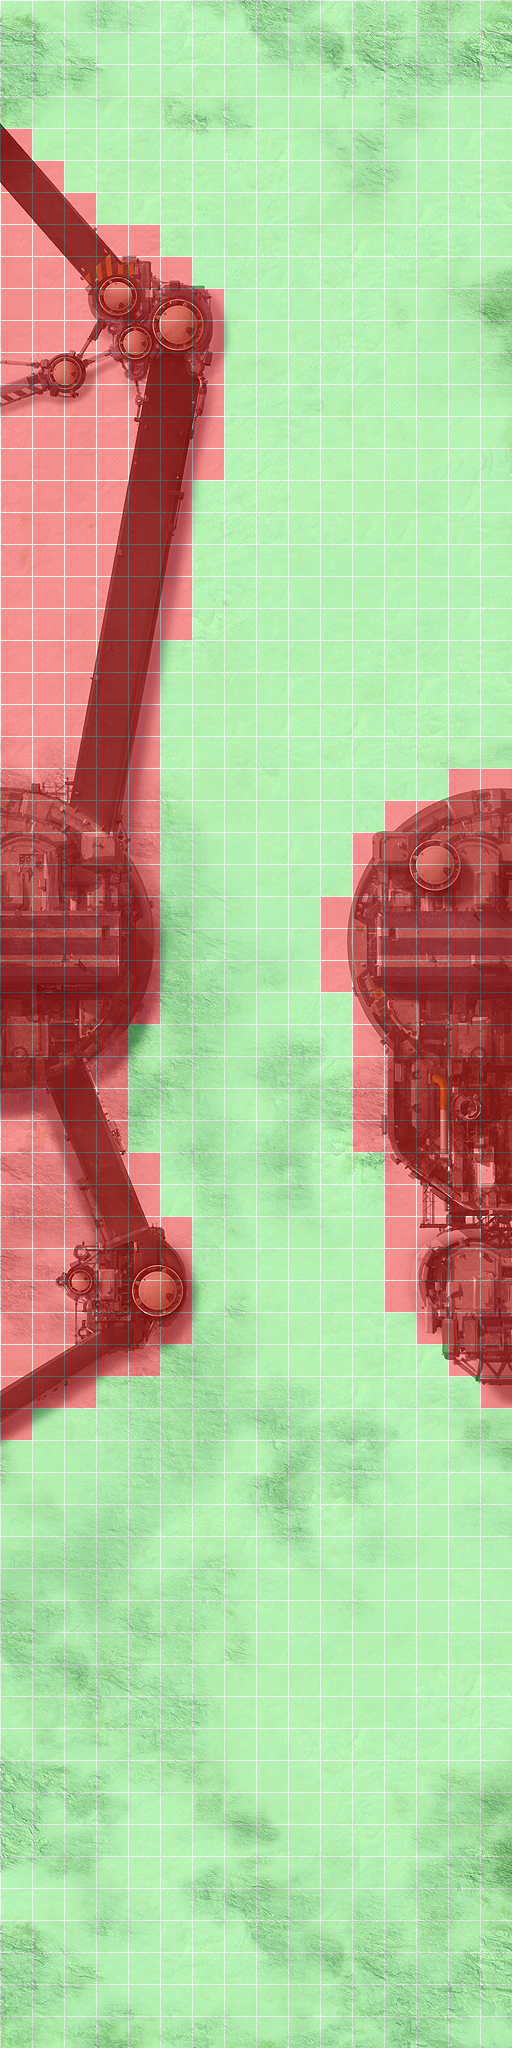
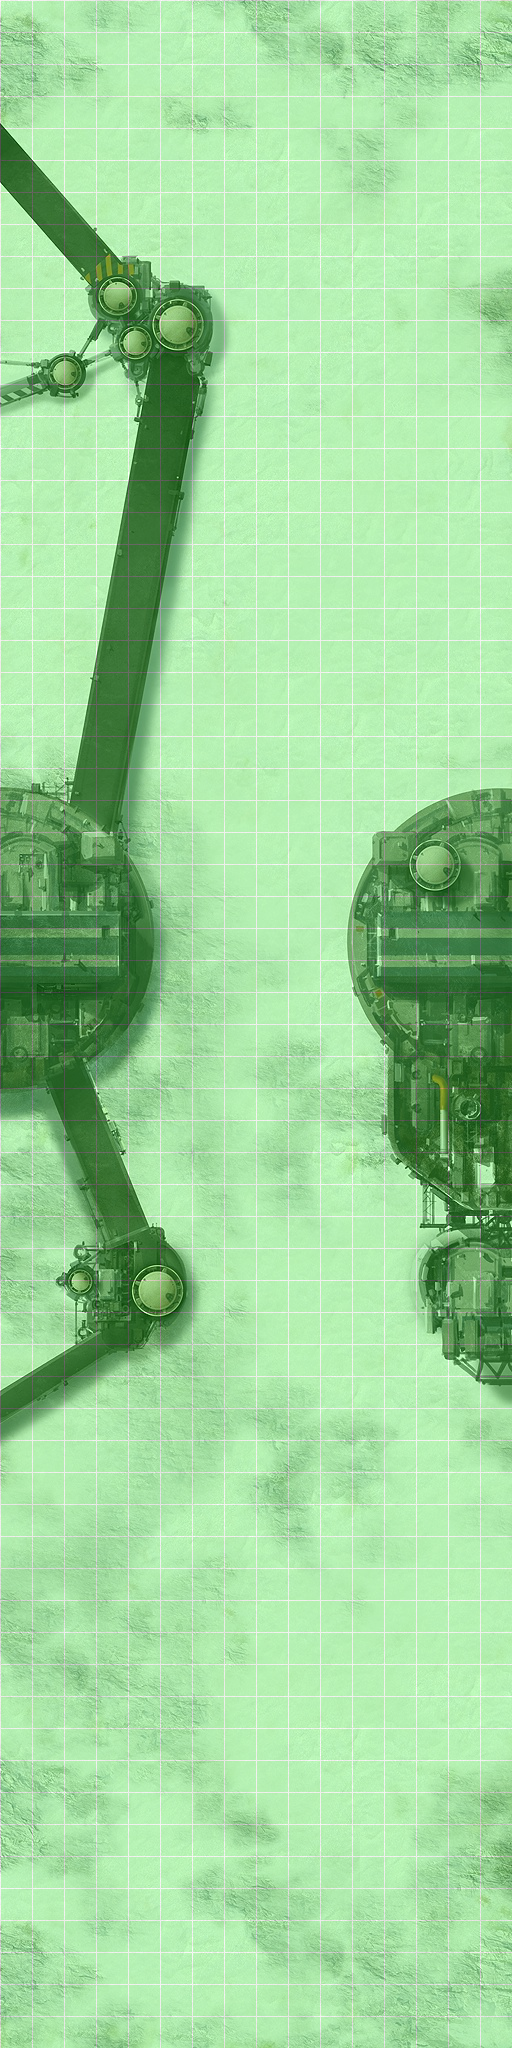
feat: terrain 25 foreground overlay + 전면 walkable 전환
공장 지형(terrain 25)을 전면 walkable로 변경하고,
건물 구조물을 foreground overlay로 렌더링하여 유닛이 건물 뒤로
지나가는 시각 효과 구현. (아직 시각적 개선 필요 — 32px 타일 단위
마스크가 과도하게 넓어 눈밭 등에서도 유닛이 안 보이는 문제 있음)

주요 변경:
- generate_navgrid.py: terrain 25를 FORCE_ALL_WALKABLE에 추가
- StageAssetsManager: 01-fg.png/02-fg.png 자동 로드/언로드
- Terrain.kt: foreground actors 추가
- GameWorld.kt: foreground를 units 위, bases 아래로 z-order
- generate_foreground.py: foreground PNG 생성 도구 추가

Changed region(s): [[0.0, 0.0625, 0.4375, 0.7188], [0.625, 0.375, 1.0, 0.6875]]

diff --git a/core/src/kotlin/fr/mesabloo/heavymachdefense/managers/assets/StageAssetsManager.kt b/core/src/kotlin/fr/mesabloo/heavymachdefense/managers/assets/StageAssetsManager.kt
@@ -1,5 +1,6 @@
 package fr.mesabloo.heavymachdefense.managers.assets
 
+import com.badlogic.gdx.Gdx
 import com.badlogic.gdx.audio.Sound
 import com.badlogic.gdx.graphics.Texture
 import com.badlogic.gdx.graphics.g2d.TextureAtlas
@@ -19,6 +20,12 @@ class StageAssetsManager : Disposable {
             getBackgroundForLevel(level).let {
                 val nb = it.toString().padStart(2, '0')
                 Pair("gfx/terrains/$nb/01.jpg", "gfx/terrains/$nb/02.jpg")
+            }
+
+        private fun foregrounds(level: Int): Pair<String, String> =
+            getBackgroundForLevel(level).let {
+                val nb = it.toString().padStart(2, '0')
+                Pair("gfx/terrains/$nb/01-fg.png", "gfx/terrains/$nb/02-fg.png")
             }
 
         const val MACHINE_BODIES = "gfx/models/machines/bodies.atlas"
@@ -195,6 +202,7 @@ class StageAssetsManager : Disposable {
 
     private fun allTextures() = this.stageLevel?.let {
         val (bg1, bg2) = backgrounds(it)
+        val (fg1, fg2) = foregrounds(it)
 
         listOf(
             bg1,
@@ -222,6 +230,9 @@ class StageAssetsManager : Disposable {
             UI.BUILD_SLOT_COVER,
             UI.BUILD_QUEUE_ITEM_BACKGROUND,
             UI.BUILD_QUEUE_GAUGE
+        ) + listOfNotNull(
+            fg1.takeIf { Gdx.files.internal(it).exists() },
+            fg2.takeIf { Gdx.files.internal(it).exists() }
         )
     } ?: listOf()
 
@@ -266,9 +277,12 @@ class StageAssetsManager : Disposable {
     override fun dispose() {
         if (this.stageLevel != null) {
             val (bg1, bg2) = backgrounds(this.stageLevel!!)
-
             assetManager.unload(bg1)
             assetManager.unload(bg2)
+
+            val (fg1, fg2) = foregrounds(this.stageLevel!!)
+            if (assetManager.isLoaded(fg1)) assetManager.unload(fg1)
+            if (assetManager.isLoaded(fg2)) assetManager.unload(fg2)
         }
         ALL_WEAPON_SOUND_PATHS.forEach {
             if (assetManager.isLoaded(it)) assetManager.unload(it)
@@ -287,6 +301,13 @@ class StageAssetsManager : Disposable {
 
     fun background(): Pair<TextureRegion, TextureRegion>? = this.stageLevel?.let { level ->
         backgrounds(level).let { Pair(this.get(it.first), this.get(it.second)) }
+    }
+
+    fun foreground(): Pair<TextureRegion, TextureRegion>? = this.stageLevel?.let { level ->
+        val (fg1, fg2) = foregrounds(level)
+        if (assetManager.isLoaded(fg1) && assetManager.isLoaded(fg2))
+            Pair(this.get(fg1), this.get(fg2))
+        else null
     }
 }
 

diff --git a/core/src/kotlin/fr/mesabloo/heavymachdefense/ui/stage/Terrain.kt b/core/src/kotlin/fr/mesabloo/heavymachdefense/ui/stage/Terrain.kt
@@ -1,10 +1,13 @@
 package fr.mesabloo.heavymachdefense.ui.stage
 
+import com.badlogic.gdx.scenes.scene2d.Actor
 import com.badlogic.gdx.scenes.scene2d.Group
 import com.badlogic.gdx.scenes.scene2d.ui.Image
 import fr.mesabloo.heavymachdefense.managers.assets.stageAssetsManager
 
 class Terrain : Group() {
+    val foregroundActors = mutableListOf<Actor>()
+
     init {
         this.height = 2048f
         this.width = 512f
@@ -17,5 +20,17 @@ class Terrain : Group() {
         this.addActor(Image(bg2).also {
             it.setPosition(0f, 1024f)
         })
+
+        // Foreground overlays: rendered above units so they appear to pass behind buildings
+        stageAssetsManager.foreground()?.let { (fg1, fg2) ->
+            foregroundActors.add(Image(fg1).also {
+                it.setPosition(0f, 0f)
+                this.addActor(it)
+            })
+            foregroundActors.add(Image(fg2).also {
+                it.setPosition(0f, 1024f)
+                this.addActor(it)
+            })
+        }
     }
 }

diff --git a/core/src/kotlin/fr/mesabloo/heavymachdefense/world/GameWorld.kt b/core/src/kotlin/fr/mesabloo/heavymachdefense/world/GameWorld.kt
@@ -78,7 +78,10 @@ class GameWorld(private val terrain: Terrain) : Disposable {
             }
         }
 
-        // Bases render above units (units emerge from behind bases)
+        // Foreground overlays render above units (units pass behind buildings)
+        terrain.foregroundActors.forEach { it.toFront() }
+
+        // Bases render above units and foreground (units emerge from behind bases)
         bodies.forEach { body ->
             if (body.type == BodyDef.BodyType.StaticBody) {
                 (body.userData as? Actor)?.toFront()

diff --git a/tools/generate_foreground.py b/tools/generate_foreground.py
@@ -1,0 +1,110 @@
+#!/usr/bin/env python3
+"""
+Generate foreground overlay PNGs for terrains where units should
+pass behind/under building structures.
+
+Uses blocked tile regions to extract building structures from terrain images
+and create transparent PNG overlays. These overlays are rendered above units
+in the game, creating the illusion that units pass under the buildings.
+
+Output per terrain:
+  - 01-fg.png (bottom half, game Y=0 to Y=1024)
+  - 02-fg.png (top half, game Y=1024 to Y=2048)
+"""
+
+from pathlib import Path
+
+from PIL import Image
+
+TILE_SIZE = 32
+TERRAIN_W = 512
+TERRAIN_H = 2048
+
+TERRAINS_DIR = Path(__file__).parent.parent / "core" / "assets" / "gfx" / "terrains"
+
+# Blocked tile regions per terrain (NavGrid coordinates):
+# (row_start, col_start, row_end, col_end) inclusive
+# Row 0 = game top (Y=2048), Row 63 = game bottom (Y=0)
+FOREGROUND_REGIONS = {
+    25: [
+        # Industrial — building structures that units pass behind
+        (4, 0, 31, 0),
+        (5, 1, 31, 1),
+        (6, 2, 31, 2),
+        (7, 3, 31, 4),
+        (8, 5, 19, 5),
+        (9, 6, 14, 6),
+        (24, 14, 31, 15),
+        (25, 12, 31, 13),
+        (26, 11, 31, 11),
+        (28, 10, 30, 10),
+        (32, 0, 42, 3),
+        (32, 11, 35, 15),
+        (36, 4, 42, 4),
+        (36, 12, 40, 15),
+        (38, 5, 41, 5),
+        (41, 13, 41, 15),
+        (42, 14, 42, 15),
+        (43, 0, 43, 2),
+        (43, 15, 43, 15),
+        (44, 0, 44, 0),
+    ],
+}
+
+
+def load_terrain(terrain_id: int) -> Image.Image:
+    """Load and combine terrain halves into 512x2048 image.
+
+    Combined image order matches generate_navgrid.py:
+      - 02.jpg at PIL Y=0 (game top, NavGrid row 0)
+      - 01.jpg at PIL Y=1024 (game bottom, NavGrid row 32+)
+    """
+    tid_str = str(terrain_id).zfill(2)
+    d = TERRAINS_DIR / tid_str
+    img1 = Image.open(d / "01.jpg").convert("RGBA")
+    img2 = Image.open(d / "02.jpg").convert("RGBA")
+
+    combined = Image.new("RGBA", (TERRAIN_W, TERRAIN_H))
+    combined.paste(img2, (0, 0))       # 02.jpg = game top
+    combined.paste(img1, (0, 1024))    # 01.jpg = game bottom
+    return combined
+
+
+def generate_foreground(terrain_id: int, regions: list):
+    """Generate foreground overlay PNGs for a terrain."""
+    terrain = load_terrain(terrain_id)
+    foreground = Image.new("RGBA", (TERRAIN_W, TERRAIN_H), (0, 0, 0, 0))
+
+    for r1, c1, r2, c2 in regions:
+        for r in range(r1, r2 + 1):
+            for c in range(c1, c2 + 1):
+                x = c * TILE_SIZE
+                y = r * TILE_SIZE
+                tile = terrain.crop((x, y, x + TILE_SIZE, y + TILE_SIZE))
+                foreground.paste(tile, (x, y))
+
+    # Split: top half → 02-fg.png, bottom half → 01-fg.png
+    fg2 = foreground.crop((0, 0, TERRAIN_W, 1024))
+    fg1 = foreground.crop((0, 1024, TERRAIN_W, TERRAIN_H))
+
+    tid_str = str(terrain_id).zfill(2)
+    output_dir = TERRAINS_DIR / tid_str
+    fg1.save(output_dir / "01-fg.png")
+    fg2.save(output_dir / "02-fg.png")
+
+    fg1_opaque = sum(1 for p in fg1.getdata() if p[3] > 0)
+    fg2_opaque = sum(1 for p in fg2.getdata() if p[3] > 0)
+    total = TERRAIN_W * 1024
+
+    print(f"terrain-{tid_str}: Generated foreground overlays")
+    print(f"  01-fg.png: {fg1_opaque}/{total} opaque ({100*fg1_opaque/total:.1f}%)")
+    print(f"  02-fg.png: {fg2_opaque}/{total} opaque ({100*fg2_opaque/total:.1f}%)")
+
+
+def main():
+    for tid, regions in FOREGROUND_REGIONS.items():
+        generate_foreground(tid, regions)
+
+
+if __name__ == "__main__":
+    main()

diff --git a/tools/generate_navgrid.py b/tools/generate_navgrid.py
@@ -44,7 +44,8 @@ OUTPUT_DEBUG_DIR = Path(__file__).parent / "navgrid-debug"
 # ============================================================
 
 # These terrains have no obstacles — force all tiles walkable.
-FORCE_ALL_WALKABLE = {1, 2, 3, 4, 5, 7, 8, 9, 10, 11, 12, 13, 14, 15, 16}
+# Terrain 25: factory buildings rendered as foreground overlay (units pass behind)
+FORCE_ALL_WALKABLE = {1, 2, 3, 4, 5, 7, 8, 9, 10, 11, 12, 13, 14, 15, 16, 25}
 
 # Rectangular region overrides: (row_start, col_start, row_end, col_end) inclusive.
 # Applied AFTER general classification.
